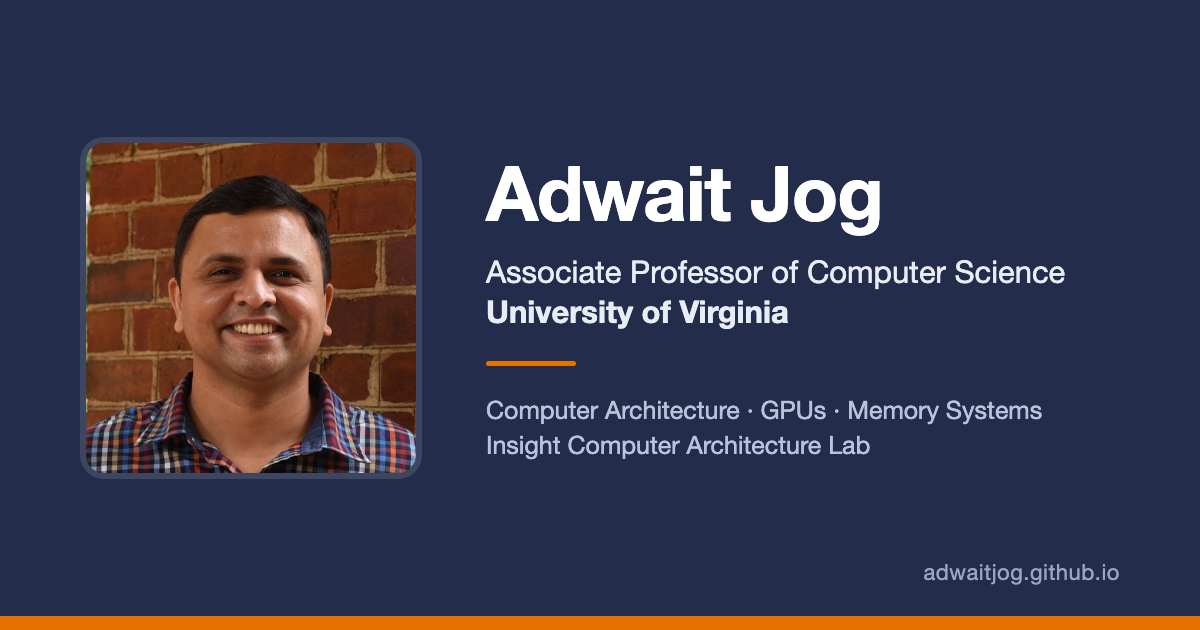
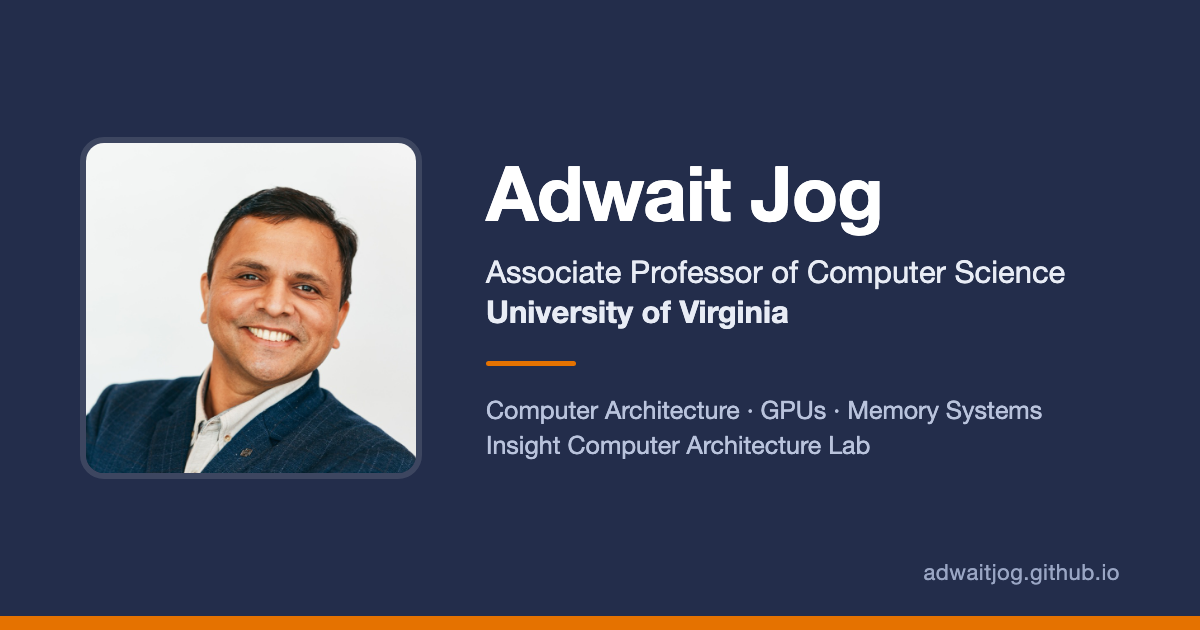
New professional headshot (photo: PuraPhoto)
- Square 800x800 crop of the UVA headshot replaces the home page photo
  (new filename so caches pick it up); full-resolution original kept in
  docs/img/adwait-jog-2026-puraphoto.jpg
- Link-preview banner regenerated with the new photo
- "Headshot: PuraPhoto" credit in the home page footer

Changed region(s): [[0.0617, 0.2111, 0.37, 0.754]]

diff --git a/_layouts/default.html b/_layouts/default.html
@@ -69,7 +69,7 @@
 
   <footer class="site-footer">
     <div class="container footer-inner">
-      <span>&copy; {{ site.time | date: "%Y" }} {{ site.author.name }} · {{ site.author.department }}, {{ site.author.university }}</span>
+      <span>&copy; {{ site.time | date: "%Y" }} {{ site.author.name }} · {{ site.author.department }}, {{ site.author.university }}{% if page.url == "/" or page.url == "/index.html" %} · Headshot: PuraPhoto{% endif %}</span>
       <span>Last updated <time datetime="{{ site.time | date_to_xmlschema }}">{{ site.time | date: "%B %-d, %Y" }}</time> · <a href="mailto:{{ site.author.email }}">{{ site.author.email }}</a></span>
     </div>
   </footer>

diff --git a/index.html b/index.html
@@ -4,7 +4,7 @@ layout: default
 {%- assign a = site.author -%}
 <div class="home">
   <aside class="profile">
-    <img class="profile-photo" src="{{ a.photo | relative_url }}" alt="Portrait of {{ a.name }}" width="640" height="563">
+    <img class="profile-photo" src="{{ a.photo | relative_url }}" alt="Portrait of {{ a.name }}" width="800" height="800">
     <h1 class="profile-name">{{ a.name }}</h1>
     <p class="profile-role">
       <a href="{{ a.profile }}">{{ a.position }}</a><br>
